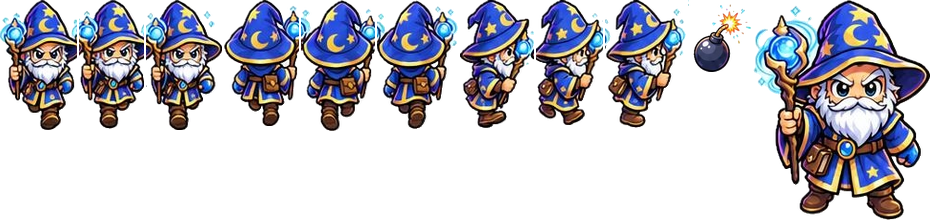
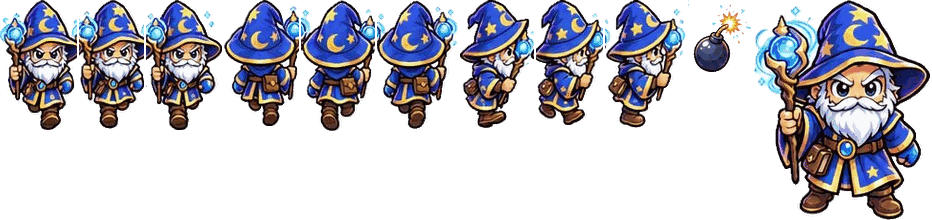
7 nouveaux persos (Gavroche, Grizzli, Chevalier, Sorcière, Gloop, Rapace, Ninja), sélecteur en grille compacte, planches allégées
Claude-Session: https://claude.ai/code/session_01JYZA5iE9PycqaXua4PGqJu

diff --git a/jeu.html b/jeu.html
@@ -172,12 +172,13 @@ button:focus-visible{outline:3px solid var(--gold);outline-offset:2px}
 .ranktable tr.gap td{border:0;text-align:center;color:var(--muted);padding:2px}
 @media (max-width:560px){.ranktable th,.ranktable td{padding:6px 5px}.ranktable th:nth-child(5),.ranktable td:nth-child(5){display:none}}
 .net-players em{font-style:normal;font-weight:800;font-size:12px;color:var(--gold)}
-.charpick{display:grid;grid-template-columns:repeat(4,1fr);gap:8px;width:min(460px,100%);margin:0 0 18px}
-.charpick button{display:flex;flex-direction:column;align-items:center;gap:2px;font:800 14px/1.1 var(--font-body);color:var(--parchment);background:rgba(12,18,12,.5);border:2px solid rgba(243,229,192,.22);border-radius:14px;padding:6px 4px 8px;cursor:pointer;transition:border-color .15s,background .15s}
+.charpick{display:grid;grid-template-columns:repeat(6,1fr);gap:6px;width:min(560px,100%);margin:0 0 18px}
+.charpick button{display:flex;flex-direction:column;align-items:center;gap:1px;min-width:0;font:800 12.5px/1.1 var(--font-body);color:var(--parchment);background:rgba(12,18,12,.5);border:2px solid rgba(243,229,192,.22);border-radius:14px;padding:4px 2px 6px;cursor:pointer;transition:border-color .15s,background .15s}
+.charpick button span{max-width:100%;overflow:hidden;text-overflow:ellipsis;white-space:nowrap}
 .charpick button:hover{border-color:rgba(243,229,192,.55)}
 .charpick button[aria-checked="true"]{border-color:var(--gold);background:rgba(255,207,90,.14);color:var(--gold)}
-.charpick canvas{width:72px;height:76px}
-@media (max-width:420px){.charpick canvas{width:58px;height:62px}}
+.charpick canvas{width:60px;height:63px}
+@media (max-width:520px){.charpick{grid-template-columns:repeat(4,1fr)}.charpick canvas{width:52px;height:55px}}
 .net-players .ch{font-weight:800;font-size:12px;color:var(--parchment);opacity:.8}
 .mbtns{display:grid;grid-template-columns:1fr 1fr;gap:12px;width:min(580px,100%)}
 @media (max-width:640px){.mbtns{grid-template-columns:1fr}}
@@ -586,15 +587,22 @@ const FUSE = 3.5, FLAME_DUR = 0.55, CHAIN_DELAY = 0.07, KICK_SPEED = 3.2; // bom
 const ROUND_TIME = 120, SD_STEP = 0.24, FALL_TIME = 0.5, SD_RINGS = 2, RAIN_EVERY = 7, RAIN_FALL = 0.9;
 const BASE_SPEED = 4, SPEED_STEP = 0.4, MAX_SPEED_LV = 5, MAX_BOMBS = 8, MAX_RANGE = 8;
 const SKIN = '#f2c79d';
-// Persos jouables : l'artificier dessiné en code, puis 3 persos en images (assets/perso-*.png).
+// Persos jouables : l'artificier dessiné en code, puis 10 persos en images (assets/perso-*.png).
 // Chaque image de marche est donnée par [x, y, largeur, hauteur, axe du corps, bas des pieds].
 const CHARS = [
   { key: 'artificier', name: 'Artificier' },
-  { key: 'robot', name: 'Astro' },
+  { key: 'robot', name: 'Astro', ph: 68 },
   { key: 'renard', name: 'Fennec' },
-  { key: 'mage', name: 'Mage' },
+  { key: 'mage', name: 'Mage', ph: 78 },
+  { key: 'gamin', name: 'Gavroche' },
+  { key: 'ours', name: 'Grizzli' },
+  { key: 'chevalier', name: 'Chevalier' },
+  { key: 'sorciere', name: 'Sorcière' },
+  { key: 'slime', name: 'Gloop', ph: 60 },
+  { key: 'aigle', name: 'Rapace' },
+  { key: 'ninja', name: 'Ninja' },
 ];
-const CHAR_RECTS = {"robot":{"down":[[0,0,62,126,30.0,126],[64,0,63,132,32.0,132],[129,0,63,127,32.0,127]],"up":[[194,0,64,128,32.0,128],[260,0,62,128,30.0,128],[324,0,61,129,30.0,129]],"right":[[387,0,70,131,35.0,131],[459,0,64,125,31.0,125],[525,0,67,129,33.0,129]],"bomb":[[594,0,58,72,31.0,72]],"big":[[654,0,126,220,64.0,220]]},"renard":{"down":[[0,0,70,128,35.0,128],[72,0,70,129,34.0,129],[144,0,73,123,33.0,123]],"up":[[219,0,69,128,36.0,128],[290,0,70,123,35.0,123],[362,0,74,129,36.0,129]],"right":[[438,0,72,129,34.0,129],[512,0,70,125,34.0,125],[584,0,74,128,36.0,128]],"bomb":[[660,0,60,72,31.0,72]],"big":[[722,0,174,220,83.0,220]]},"mage":{"down":[[0,0,77,130,40.0,130],[79,0,65,129,32.0,129],[146,0,76,130,35.0,130]],"up":[[224,0,75,126,40.0,126],[301,0,74,131,37.0,131],[377,0,81,129,37.0,129]],"right":[[460,0,74,128,35.0,128],[536,0,67,125,32.0,125],[605,0,81,128,37.0,128]],"bomb":[[688,0,63,72,30.0,72]],"big":[[753,0,177,220,90.0,220]]}};
+const CHAR_RECTS = {"robot":{"down":[[0,0,62,126,30.0,126],[64,0,63,132,32.0,132],[129,0,63,127,32.0,127]],"up":[[194,0,64,128,32.0,128],[260,0,62,128,30.0,128],[324,0,61,129,30.0,129]],"right":[[387,0,70,131,35.0,131],[459,0,64,125,31.0,125],[525,0,67,129,33.0,129]],"bomb":[[594,0,58,72,31.0,72]],"big":[[654,0,126,220,64.0,220]]},"renard":{"down":[[0,0,70,128,35.0,128],[72,0,70,129,34.0,129],[144,0,73,123,33.0,123]],"up":[[219,0,69,128,36.0,128],[290,0,70,123,35.0,123],[362,0,74,129,36.0,129]],"right":[[438,0,72,129,34.0,129],[512,0,70,125,34.0,125],[584,0,74,128,36.0,128]],"bomb":[[660,0,60,72,31.0,72]],"big":[[722,0,174,220,83.0,220]]},"mage":{"down":[[0,0,77,130,40.0,130],[79,0,65,129,32.0,129],[146,0,76,130,35.0,130]],"up":[[224,0,75,126,40.0,126],[301,0,74,131,37.0,131],[377,0,81,129,37.0,129]],"right":[[460,0,74,128,35.0,128],[536,0,67,125,32.0,125],[605,0,81,128,37.0,128]],"bomb":[[688,0,63,72,30.0,72]],"big":[[753,0,177,220,90.0,220]]},"gamin":{"down":[[0,0,73,128,39.0,128],[75,0,67,133,32.0,133],[144,0,69,128,31.0,128]],"up":[[215,0,70,128,35.0,128],[287,0,65,125,31.0,125],[354,0,70,132,34.0,132]],"right":[[426,0,76,125,35.0,125],[504,0,74,122,32.0,122],[580,0,74,128,28.0,128]],"bomb":[[656,0,61,72,33.0,72]],"big":[[719,0,146,220,71.0,220]]},"ours":{"down":[[0,0,80,126,43.0,126],[82,0,75,127,38.0,127],[159,0,92,124,38.0,124]],"up":[[253,0,77,121,39.0,121],[332,0,71,129,35.0,129],[405,0,82,127,37.0,127]],"right":[[489,0,81,128,37.0,128],[572,0,72,130,34.0,130],[646,0,81,133,40.0,133]],"bomb":[[729,0,59,72,34.0,72]],"big":[[790,0,241,220,132.0,220]]},"chevalier":{"down":[[0,0,63,128,33.0,128],[65,0,60,129,30.0,129],[127,0,63,129,31.0,129]],"up":[[192,0,59,127,30.0,127],[253,0,61,128,30.0,128],[316,0,62,129,30.0,129]],"right":[[380,0,75,129,39.0,129],[457,0,63,127,31.0,127],[522,0,62,128,30.0,128]],"bomb":[[586,0,59,72,31.0,72]],"big":[[647,0,141,220,70.0,220]]},"sorciere":{"down":[[0,0,79,130,42.0,130],[81,0,69,133,34.0,133],[152,0,83,128,38.0,128]],"up":[[237,0,72,127,38.0,127],[311,0,73,129,37.0,129],[386,0,79,129,37.0,129]],"right":[[467,0,74,128,38.0,128],[543,0,70,118,35.0,118],[615,0,78,126,38.0,126]],"bomb":[[695,0,70,72,42.0,72]],"big":[[767,0,197,220,94.0,220]]},"slime":{"down":[[0,0,89,123,47.0,123],[91,0,80,126,40.0,126],[173,0,85,129,42.0,129]],"up":[[260,0,82,126,42.0,126],[344,0,83,130,41.0,130],[429,0,92,127,46.0,127]],"right":[[523,0,80,129,41.0,129],[605,0,75,129,37.0,129],[682,0,82,129,43.0,129]],"bomb":[[766,0,61,72,33.0,72]],"big":[[829,0,181,220,91.0,220]]},"aigle":{"down":[[0,0,62,128,32.0,128],[64,0,59,128,29.0,128],[125,0,60,128,31.0,128]],"up":[[187,0,59,131,29.0,131],[248,0,60,137,30.0,137],[310,0,59,134,29.0,134]],"right":[[371,0,72,128,36.0,128],[445,0,64,125,29.0,125],[511,0,68,126,34.0,126]],"bomb":[[581,0,59,72,33.0,72]],"big":[[642,0,137,220,68.0,220]]},"ninja":{"down":[[0,0,80,130,43.0,130],[82,0,67,128,34.0,128],[151,0,74,128,39.0,128]],"up":[[227,0,82,128,47.0,128],[311,0,71,129,37.0,129],[384,0,79,130,35.0,130]],"right":[[465,0,83,126,45.0,126],[550,0,72,128,37.0,128],[624,0,72,127,37.0,127]],"bomb":[[698,0,64,72,32.0,72]],"big":[[764,0,175,220,102.0,220]]}};
 const charImg = {};
 const SPR_SCALE = 56 / 128;   // une image de marche (128 px) fait 56 px de haut dans l’arène
 const charName = i => (CHARS[i] || CHARS[0]).name;
@@ -2633,8 +2641,9 @@ function drawPortrait(cv, pal, skin) {
   const ch = CHARS[skin], im = skin && ch && charImg[ch.key];
   if (im) {
     // grand portrait de face, cadré sur la tête
-    const [sx, sy, w, h] = CHAR_RECTS[ch.key].big[0], k = 60 / w;
-    c.drawImage(im, sx, sy, w, h, 26 - w * k / 2, 3, w * k, h * k);
+    // même hauteur pour tous (la largeur varie : hache, bouclier, bâton…), centré sur l'axe du corps
+    const [sx, sy, w, h, ax] = CHAR_RECTS[ch.key].big[0], k = (ch.ph || 88) / h; // ph : hauteur du portrait entier, réglée par perso pour cadrer la tête
+    c.drawImage(im, sx, sy, w, h, 26 - ax * k, 3, w * k, h * k);
     c.restore(); return;
   }
   c.translate(26, 26); c.scale(1.25, 1.25);
@@ -3983,7 +3992,7 @@ function boot(data) {
   }
   requestAnimationFrame(t => { last = t; loop(t); });
 }
-window.__mc = { G, settings, cols: () => COLS, rows: () => ROWS, update, render, drawToken, drawHero, PALS, NET, __buildSnap: () => buildSnap() };
+window.__mc = { drawPortrait, PALS0: () => PALS, G, settings, cols: () => COLS, rows: () => ROWS, update, render, drawToken, drawHero, PALS, NET, __buildSnap: () => buildSnap() };
 boot({});
 })();
 </script>

diff --git a/index.html b/index.html
@@ -211,7 +211,7 @@ footer .wrap{display:flex;justify-content:space-between;gap:16px;flex-wrap:wrap}
     <div class="wrap">
       <div class="head">
         <h2>Quatre façons d'allumer la mèche</h2>
-        <p>Sur l'écran d'accueil du jeu, choisis ton perso : l'Artificier, Astro le petit robot de l'espace, Fennec le renard bombardier ou le Mage. Les ordis prennent les autres. Le menu du jeu tient ensuite en quatre boutons : jouer en solo, le battle royale, chercher une partie en ligne, ou créer un lobby pour tes potes. Les réglages (ordis, niveau, manches) viennent ensuite, au moment de lancer. En duel, tu choisis 1, 3 ou 5 manches gagnantes ; à 3 ou 4 artificiers, la partie se joue en 3 manches aux points.</p>
+        <p>Sur l'écran d'accueil du jeu, choisis ton perso parmi onze : l'Artificier, Astro le petit robot de l'espace, Fennec le renard bombardier, le Mage, Gavroche, Grizzli l'ours guerrier, le Chevalier, la Sorcière, Gloop le slime, Rapace et le Ninja. Les ordis prennent les autres. Le menu du jeu tient ensuite en quatre boutons : jouer en solo, le battle royale, chercher une partie en ligne, ou créer un lobby pour tes potes. Les réglages (ordis, niveau, manches) viennent ensuite, au moment de lancer. En duel, tu choisis 1, 3 ou 5 manches gagnantes ; à 3 ou 4 artificiers, la partie se joue en 3 manches aux points.</p>
       </div>
       <div class="modes">
         <article class="mode">
